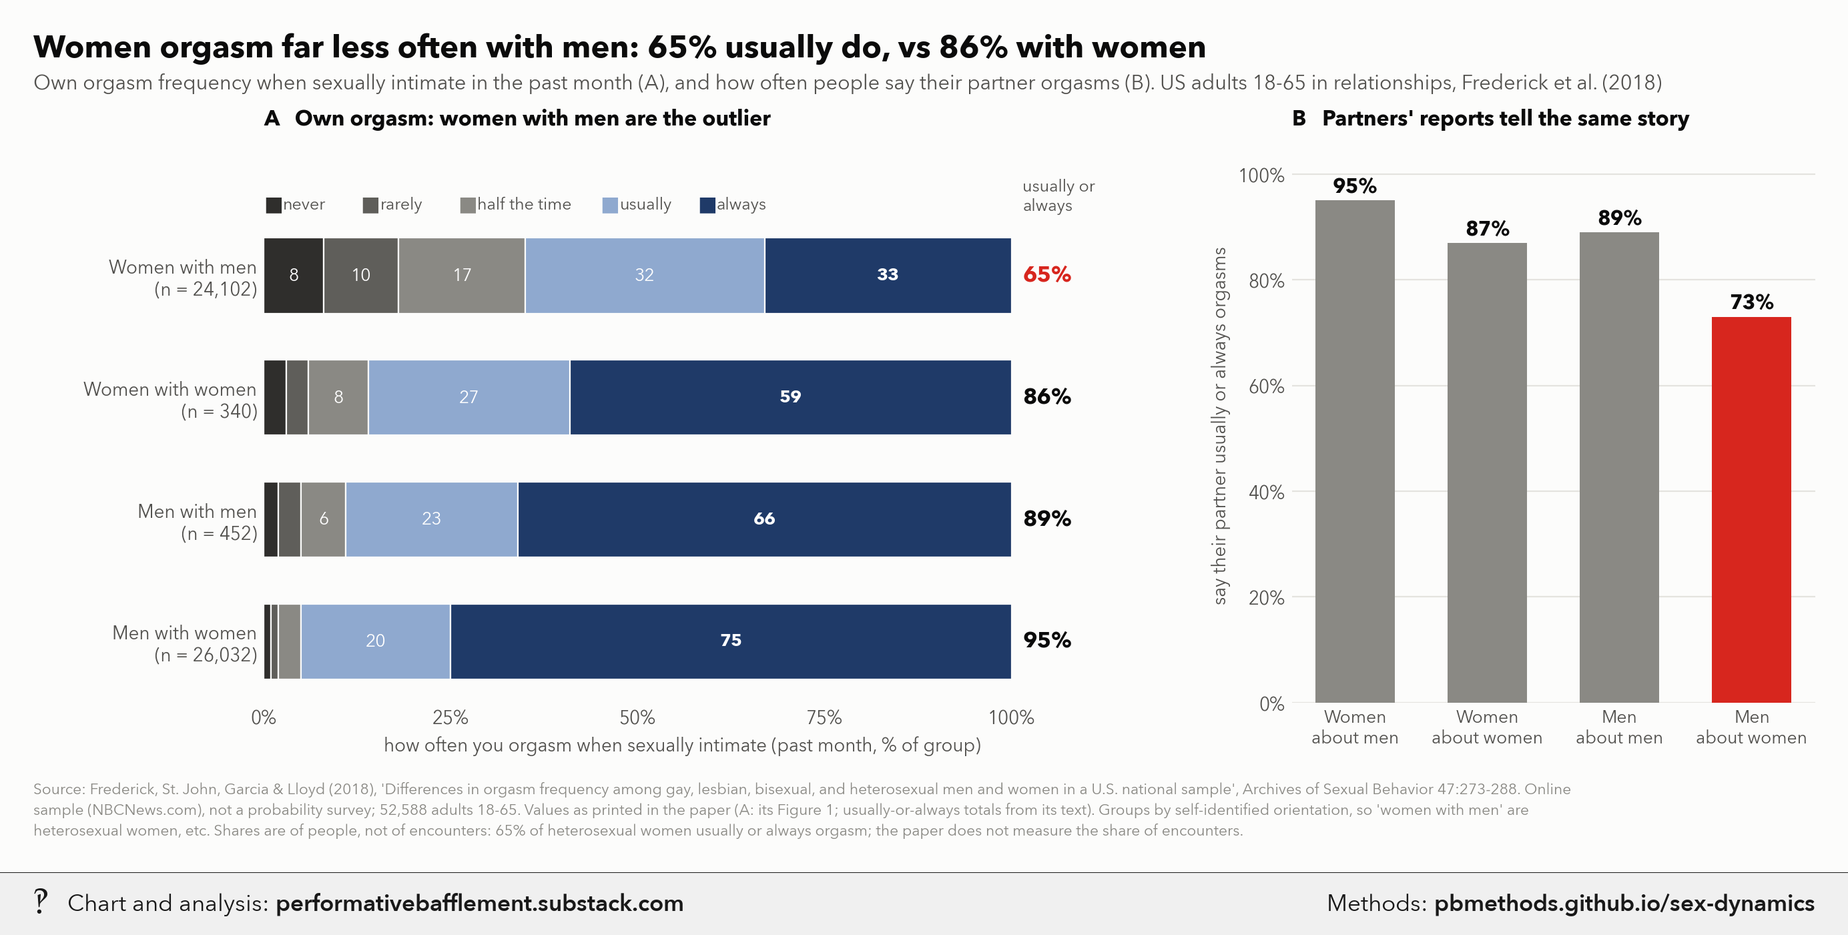
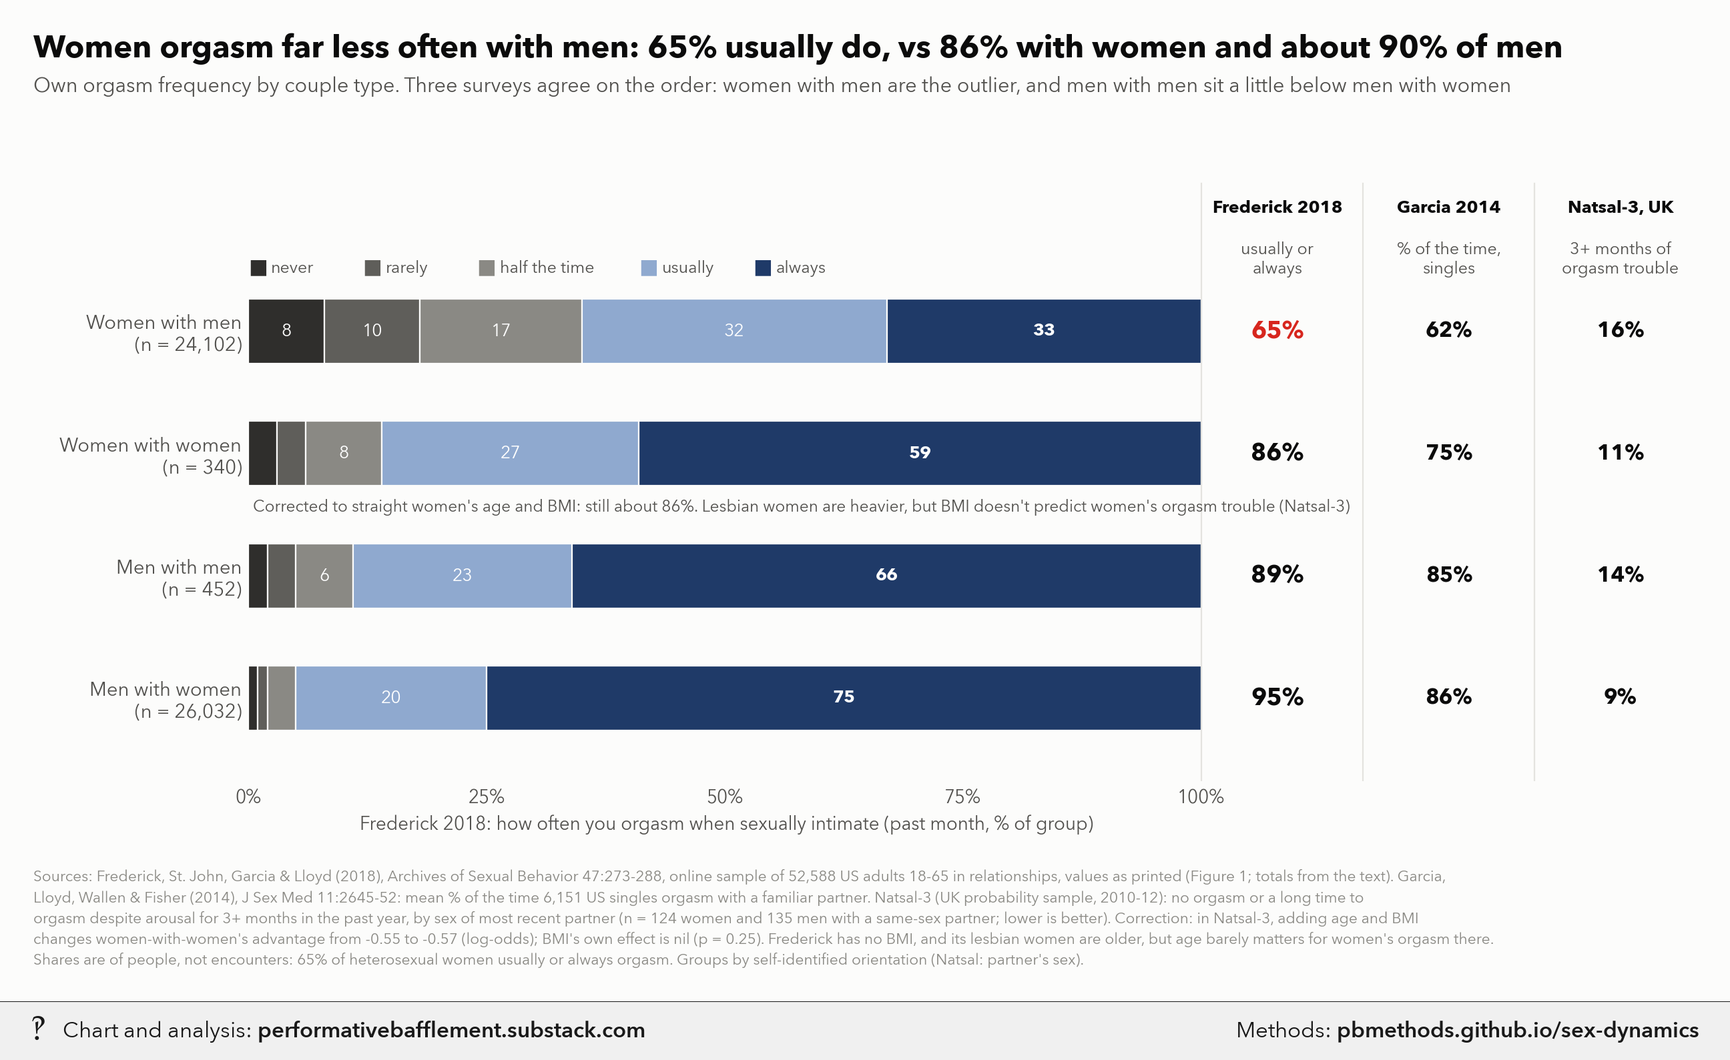
Update sex-dynamics

diff --git a/sex-dynamics/index.html b/sex-dynamics/index.html
@@ -4493,6 +4493,48 @@ pd.DataFrame({
     &quot;partner_usually_always&quot;: [95, 87, 89, 73],
 }).assign(source=&quot;Frederick et al. 2018, Arch Sex Behav, Figure 1 and results&quot;).to_csv(
     HERE / &quot;frederick_orgasm.csv&quot;, index=False)
+
+# Orgasm triangulation and the age/BMI check on lesbian women (Natsal-3, UK probability sample 2010-12).
+# Groups by sex of most recent partner (r1sex), outcome = no orgasm or a long time to orgasm despite arousal for 3+
+# months in the last year (nolgorg3m). Logit of that on same-sex partner, then + age, age^2 and BMI (self-reported,
+# 14-70) or obesity, to see whether women-with-women's advantage moves at straight women's age and BMI.
+import statsmodels.formula.api as smf  # noqa: E402
+no = pd.read_stata(NAT, columns=[&quot;rsex&quot;, &quot;r1sex&quot;, &quot;dage&quot;, &quot;bodymass&quot;, &quot;nolgorg3m&quot;, &quot;total_wt&quot;],
+                   convert_categoricals=False)
+no = no[no.nolgorg3m.isin([0, 1]) &amp; no.r1sex.isin([1, 2])].copy()
+no[&quot;bmi&quot;] = no.bodymass.where(no.bodymass.between(14, 70))
+no[&quot;obese&quot;] = (no.bmi &gt;= 30).astype(float).where(no.bmi.notna())
+no[&quot;same&quot;] = (no.rsex == no.r1sex).astype(int)
+GLAB = {(2, 0): &quot;heterosexual women&quot;, (2, 1): &quot;lesbian women&quot;, (1, 1): &quot;gay men&quot;, (1, 0): &quot;heterosexual men&quot;}
+orows = []
+for (s, same), g in no.groupby([&quot;rsex&quot;, &quot;same&quot;]):
+    gb = g[g.bmi.notna()]
+    orows.append(dict(group=GLAB[(s, same)], n=len(g), orgasm_trouble=np.average(g.nolgorg3m, weights=g.total_wt),
+                      mean_age=np.average(g.dage, weights=g.total_wt),
+                      mean_bmi=np.average(gb.bmi, weights=gb.total_wt),
+                      obese=np.average(gb.obese, weights=gb.total_wt)))
+NORG = pd.DataFrame(orows)
+for s, lab in [(2, &quot;women&quot;), (1, &quot;men&quot;)]:
+    g = no[(no.rsex == s) &amp; no.bmi.notna()]
+    for name, fml in [(&quot;raw&quot;, &quot;nolgorg3m ~ same&quot;), (&quot;age&quot;, &quot;nolgorg3m ~ same + dage + I(dage**2)&quot;),
+                      (&quot;age_bmi&quot;, &quot;nolgorg3m ~ same + dage + I(dage**2) + bmi&quot;),
+                      (&quot;age_obese&quot;, &quot;nolgorg3m ~ same + dage + I(dage**2) + obese&quot;)]:
+        r = smf.glm(fml, data=g, family=sm.families.Binomial(), freq_weights=g.total_wt).fit()
+        lo, hi = r.conf_int().loc[&quot;same&quot;]
+        row = {&quot;group&quot;: f&quot;logit same-sex partner, {lab}: {name}&quot;, &quot;coef&quot;: r.params[&quot;same&quot;], &quot;lo&quot;: lo, &quot;hi&quot;: hi,
+               &quot;p&quot;: r.pvalues[&quot;same&quot;]}
+        for k in [&quot;bmi&quot;, &quot;obese&quot;]:
+            if k in r.params:
+                row[f&quot;coef_{k}&quot;], row[f&quot;p_{k}&quot;] = r.params[k], r.pvalues[k]
+        NORG = pd.concat([NORG, pd.DataFrame([row])], ignore_index=True)
+NORG.to_csv(HERE / &quot;natsal_orgasm_trouble.csv&quot;, index=False)
+print(NORG.round(3).to_string(index=False))
+
+# Garcia, Lloyd, Wallen &amp; Fisher (2014, J Sex Med 11:2645-52), Singles in America 2012, n = 6,151 US singles:
+# mean % of the time respondents orgasm in sex with a familiar partner (abstract values).
+pd.DataFrame({&quot;group&quot;: [&quot;heterosexual women&quot;, &quot;lesbian women&quot;, &quot;gay men&quot;, &quot;heterosexual men&quot;],
+              &quot;pct_of_time&quot;: [61.6, 74.7, 84.7, 85.5]}).assign(
+    source=&quot;Garcia et al. 2014, J Sex Med, abstract&quot;).to_csv(HERE / &quot;garcia2014_orgasm.csv&quot;, index=False)
 </code></pre>
 <h3><code>master_post_charts.py</code></h3>
 <pre><code class="language-python">&quot;&quot;&quot;Charts for &quot;The master post of sexual and relationship dynamics&quot; (Performative Bafflement).
@@ -5303,57 +5345,69 @@ save(fig, &quot;top_decile_archetypes&quot;)
 
 
 # =============================================================== 13. orgasm by couple type (Frederick et al. 2018)
+# One panel: Frederick's distribution, with two independent surveys alongside, and the age/BMI check on lesbian women.
 fo = read(&quot;frederick_orgasm.csv&quot;)
+ga = read(&quot;garcia2014_orgasm.csv&quot;).set_index(&quot;group&quot;)
+nt = read(&quot;natsal_orgasm_trouble.csv&quot;)
+nt_adj = nt[nt.group.str.startswith(&quot;logit same-sex partner, women&quot;)].set_index(&quot;group&quot;)
+nt = nt[nt.n.notna()].set_index(&quot;group&quot;)
 LABO = {&quot;heterosexual women&quot;: &quot;Women with men&quot;, &quot;lesbian women&quot;: &quot;Women with women&quot;, &quot;gay men&quot;: &quot;Men with men&quot;,
         &quot;heterosexual men&quot;: &quot;Men with women&quot;}
-fig, (ax, bx) = plt.subplots(1, 2, figsize=(15, 5.4), gridspec_kw=dict(width_ratios=[1.6, 1], wspace=0.28))
-y = np.arange(len(fo))[::-1]
+fig, ax = plt.subplots(figsize=(14, 6.0))
+y = np.arange(len(fo))[::-1] * 1.25
 SEG = [(&quot;never&quot;, &quot;never&quot;, pb.GRAYS[2]), (&quot;rarely&quot;, &quot;rarely&quot;, pb.GRAYS[1]), (&quot;half&quot;, &quot;half the time&quot;, pb.GRAYS[0]),
        (&quot;usually&quot;, &quot;usually&quot;, &quot;#8fa9cf&quot;), (&quot;always&quot;, &quot;always&quot;, NAVY)]
+C1, C2, C3 = 108, 126, 144
 for yi, r in zip(y, fo.itertuples()):
     left = 0
     for col, _, c in SEG:
         v = getattr(r, col)
-        ax.barh(yi, v, left=left, height=0.62, color=c, edgecolor=P[&quot;SURFACE&quot;], lw=0.8)
+        ax.barh(yi, v, left=left, height=0.66, color=c, edgecolor=P[&quot;SURFACE&quot;], lw=0.8)
         if v &gt;= 6:
             ax.text(left + v / 2, yi, f&quot;{v}&quot;, ha=&quot;center&quot;, va=&quot;center&quot;, fontsize=9.5, color=&quot;white&quot;,
                     fontweight=&quot;bold&quot; if col == &quot;always&quot; else &quot;normal&quot;)
         left += v
-    ax.text(101.5, yi, f&quot;{r.usually_always_text}%&quot;, va=&quot;center&quot;, fontsize=12, fontweight=&quot;bold&quot;,
-            color=RED if r.group == &quot;heterosexual women&quot; else INK)
-ax.text(101.5, y[0] + 0.5, &quot;usually or\nalways&quot;, fontsize=9, color=INK2, va=&quot;bottom&quot;)
-ax.set_yticks(y, [f&quot;{LABO[g]}\n(n = {n:,})&quot; for g, n in zip(fo.group, fo.n)], fontsize=10)
-ax.set_xlim(0, 112); ax.set_xticks([0, 25, 50, 75, 100], [&quot;0%&quot;, &quot;25%&quot;, &quot;50%&quot;, &quot;75%&quot;, &quot;100%&quot;])
+    hl = r.group == &quot;heterosexual women&quot;
+    ax.text(C1, yi, f&quot;{r.usually_always_text}%&quot;, va=&quot;center&quot;, ha=&quot;center&quot;, fontsize=13, fontweight=&quot;bold&quot;,
+            color=RED if hl else INK)
+    ax.text(C2, yi, f&quot;{ga.loc[r.group, 'pct_of_time']:.0f}%&quot;, va=&quot;center&quot;, ha=&quot;center&quot;, fontsize=11.5,
+            fontweight=&quot;bold&quot;, color=INK)
+    ax.text(C3, yi, f&quot;{nt.loc[r.group, 'orgasm_trouble']:.0%}&quot;, va=&quot;center&quot;, ha=&quot;center&quot;, fontsize=11.5,
+            fontweight=&quot;bold&quot;, color=INK)
+yl = y[list(fo.group).index(&quot;lesbian women&quot;)]
+ax.text(0.5, yl - 0.55, &quot;Corrected to straight women's age and BMI: still about 86%. Lesbian women are heavier, but &quot;
+        &quot;BMI doesn't predict women's orgasm trouble (Natsal-3)&quot;, fontsize=8.8, color=INK2, va=&quot;center&quot;)
+top = y[0] + 0.55
+for xc, lab in [(C1, &quot;usually or\nalways&quot;), (C2, &quot;% of the time,\nsingles&quot;), (C3, &quot;3+ months of\norgasm trouble&quot;)]:
+    ax.text(xc, top, lab, fontsize=9, color=INK2, ha=&quot;center&quot;, va=&quot;bottom&quot;, linespacing=1.2)
+for xc, lab in [(C1, &quot;Frederick 2018&quot;), (C2, &quot;Garcia 2014&quot;), (C3, &quot;Natsal-3, UK&quot;)]:
+    ax.text(xc, top + 0.62, lab, fontsize=9.5, color=INK, fontweight=&quot;bold&quot;, ha=&quot;center&quot;, va=&quot;bottom&quot;)
+ax.set_yticks(y, [f&quot;{LABO[g]}\n(n = {n:,})&quot; for g, n in zip(fo.group, fo.n)], fontsize=10.5)
+ax.set_xlim(0, 152); ax.set_xticks([0, 25, 50, 75, 100], [&quot;0%&quot;, &quot;25%&quot;, &quot;50%&quot;, &quot;75%&quot;, &quot;100%&quot;])
 ax.grid(axis=&quot;y&quot;, visible=False)
 x0 = 0
 for col, lab, c in SEG:
-    ax.text(x0, y[0] + 0.5, &quot;■&quot;, color=c, fontsize=11, va=&quot;bottom&quot;)
-    ax.text(x0 + 2.6, y[0] + 0.51, lab, color=INK2, fontsize=9, va=&quot;bottom&quot;)
-    x0 += 13 if col != &quot;half&quot; else 19
-ax.set_xlabel(&quot;how often you orgasm when sexually intimate (past month, % of group)&quot;)
-panel_title(ax, &quot;A&quot;, &quot;Own orgasm: women with men are the outlier&quot;)
-ax.set_ylim(-0.5, y[0] + 1.05)
+    ax.text(x0, top, &quot;■&quot;, color=c, fontsize=11, va=&quot;bottom&quot;)
+    ax.text(x0 + 2.4, top + 0.01, lab, color=INK2, fontsize=9, va=&quot;bottom&quot;)
+    x0 += 12 if col != &quot;half&quot; else 17
+ax.set_xlabel(&quot;Frederick 2018: how often you orgasm when sexually intimate (past month, % of group)&quot;, x=0.33)
+ax.set_ylim(y[-1] - 0.85, top + 1.15)
+for xc in [C1 - 8, C2 - 9, C3 - 9]:
+    ax.axvline(xc, color=P[&quot;GRID&quot;], lw=0.8, ymax=0.97)
 
-x = np.arange(len(fo))
-bx.bar(x, fo.partner_usually_always, width=0.6, color=[RED if g == &quot;heterosexual men&quot; else GRAY for g in fo.group])
-for xi, v in zip(x, fo.partner_usually_always):
-    bx.text(xi, v + 1.5, f&quot;{v}%&quot;, ha=&quot;center&quot;, fontsize=11, fontweight=&quot;bold&quot;, color=INK)
-PLAB = {&quot;heterosexual women&quot;: &quot;Women\nabout men&quot;, &quot;lesbian women&quot;: &quot;Women\nabout women&quot;,
-        &quot;gay men&quot;: &quot;Men\nabout men&quot;, &quot;heterosexual men&quot;: &quot;Men\nabout women&quot;}
-bx.set_xticks(x, [PLAB[g] for g in fo.group], fontsize=9.5)
-bx.set_ylim(0, 105); bx.yaxis.set_major_formatter(ppt)
-bx.set_ylabel(&quot;say their partner usually or always orgasms&quot;)
-panel_title(bx, &quot;B&quot;, &quot;Partners' reports tell the same story&quot;)
-
-header(fig, &quot;Women orgasm far less often with men: 65% usually do, vs 86% with women&quot;,
-       &quot;Own orgasm frequency when sexually intimate in the past month (A), and how often people say their partner &quot;
-       &quot;orgasms (B). US adults 18-65 in relationships, Frederick et al. (2018)&quot;, y=0.92)
-footnote(fig, &quot;Source: Frederick, St. John, Garcia &amp; Lloyd (2018), 'Differences in orgasm frequency among gay, lesbian, &quot;
-              &quot;bisexual, and heterosexual men and women in a U.S. national sample', Archives of Sexual Behavior 47:273-288. &quot;
-              &quot;Online\nsample (NBCNews.com), not a probability survey; 52,588 adults 18-65. Values as printed in the paper &quot;
-              &quot;(A: its Figure 1; usually-or-always totals from its text). Groups by self-identified orientation, so &quot;
-              &quot;'women with men' are\nheterosexual women, etc. Shares are of people, not of encounters: 65% of &quot;
-              &quot;heterosexual women usually or always orgasm; the paper does not measure the share of encounters.&quot;, y=0.0)
+header(fig, &quot;Women orgasm far less often with men: 65% usually do, vs 86% with women and about 90% of men&quot;,
+       &quot;Own orgasm frequency by couple type. Three surveys agree on the order: women with men are the outlier, and &quot;
+       &quot;men with men sit a little below men with women&quot;, y=0.93)
+footnote(fig, &quot;Sources: Frederick, St. John, Garcia &amp; Lloyd (2018), Archives of Sexual Behavior 47:273-288, online &quot;
+              &quot;sample of 52,588 US adults 18-65 in relationships, values as printed (Figure 1; totals from the text). &quot;
+              &quot;Garcia,\nLloyd, Wallen &amp; Fisher (2014), J Sex Med 11:2645-52: mean % of the time 6,151 US singles orgasm &quot;
+              &quot;with a familiar partner. Natsal-3 (UK probability sample, 2010-12): no orgasm or a long time to\norgasm &quot;
+              &quot;despite arousal for 3+ months in the past year, by sex of most recent partner (n = 124 women and 135 men &quot;
+              &quot;with a same-sex partner; lower is better). Correction: in Natsal-3, adding age and BMI\nchanges women-&quot;
+              f&quot;with-women's advantage from {nt_adj.coef.iloc[0]:.2f} to {nt_adj.coef.iloc[2]:.2f} (log-odds); BMI's own &quot;
+              f&quot;effect is nil (p = {nt_adj.p_bmi.iloc[2]:.2f}). Frederick has no BMI, and its lesbian women are older, but age &quot;
+              &quot;barely matters for women's orgasm there.\nShares are of people, not encounters: 65% of heterosexual women &quot;
+              &quot;usually or always orgasm. Groups by self-identified orientation (Natsal: partner's sex).&quot;, y=0.0)
 save(fig, &quot;orgasm_by_couple_type&quot;)
 </code></pre>
 </main></body></html>

diff --git a/sex-dynamics/methods.md b/sex-dynamics/methods.md
@@ -1592,6 +1592,48 @@ pd.DataFrame({
     "partner_usually_always": [95, 87, 89, 73],
 }).assign(source="Frederick et al. 2018, Arch Sex Behav, Figure 1 and results").to_csv(
     HERE / "frederick_orgasm.csv", index=False)
+
+# Orgasm triangulation and the age/BMI check on lesbian women (Natsal-3, UK probability sample 2010-12).
+# Groups by sex of most recent partner (r1sex), outcome = no orgasm or a long time to orgasm despite arousal for 3+
+# months in the last year (nolgorg3m). Logit of that on same-sex partner, then + age, age^2 and BMI (self-reported,
+# 14-70) or obesity, to see whether women-with-women's advantage moves at straight women's age and BMI.
+import statsmodels.formula.api as smf  # noqa: E402
+no = pd.read_stata(NAT, columns=["rsex", "r1sex", "dage", "bodymass", "nolgorg3m", "total_wt"],
+                   convert_categoricals=False)
+no = no[no.nolgorg3m.isin([0, 1]) & no.r1sex.isin([1, 2])].copy()
+no["bmi"] = no.bodymass.where(no.bodymass.between(14, 70))
+no["obese"] = (no.bmi >= 30).astype(float).where(no.bmi.notna())
+no["same"] = (no.rsex == no.r1sex).astype(int)
+GLAB = {(2, 0): "heterosexual women", (2, 1): "lesbian women", (1, 1): "gay men", (1, 0): "heterosexual men"}
+orows = []
+for (s, same), g in no.groupby(["rsex", "same"]):
+    gb = g[g.bmi.notna()]
+    orows.append(dict(group=GLAB[(s, same)], n=len(g), orgasm_trouble=np.average(g.nolgorg3m, weights=g.total_wt),
+                      mean_age=np.average(g.dage, weights=g.total_wt),
+                      mean_bmi=np.average(gb.bmi, weights=gb.total_wt),
+                      obese=np.average(gb.obese, weights=gb.total_wt)))
+NORG = pd.DataFrame(orows)
+for s, lab in [(2, "women"), (1, "men")]:
+    g = no[(no.rsex == s) & no.bmi.notna()]
+    for name, fml in [("raw", "nolgorg3m ~ same"), ("age", "nolgorg3m ~ same + dage + I(dage**2)"),
+                      ("age_bmi", "nolgorg3m ~ same + dage + I(dage**2) + bmi"),
+                      ("age_obese", "nolgorg3m ~ same + dage + I(dage**2) + obese")]:
+        r = smf.glm(fml, data=g, family=sm.families.Binomial(), freq_weights=g.total_wt).fit()
+        lo, hi = r.conf_int().loc["same"]
+        row = {"group": f"logit same-sex partner, {lab}: {name}", "coef": r.params["same"], "lo": lo, "hi": hi,
+               "p": r.pvalues["same"]}
+        for k in ["bmi", "obese"]:
+            if k in r.params:
+                row[f"coef_{k}"], row[f"p_{k}"] = r.params[k], r.pvalues[k]
+        NORG = pd.concat([NORG, pd.DataFrame([row])], ignore_index=True)
+NORG.to_csv(HERE / "natsal_orgasm_trouble.csv", index=False)
+print(NORG.round(3).to_string(index=False))
+
+# Garcia, Lloyd, Wallen & Fisher (2014, J Sex Med 11:2645-52), Singles in America 2012, n = 6,151 US singles:
+# mean % of the time respondents orgasm in sex with a familiar partner (abstract values).
+pd.DataFrame({"group": ["heterosexual women", "lesbian women", "gay men", "heterosexual men"],
+              "pct_of_time": [61.6, 74.7, 84.7, 85.5]}).assign(
+    source="Garcia et al. 2014, J Sex Med, abstract").to_csv(HERE / "garcia2014_orgasm.csv", index=False)
 ```
 
 ### `master_post_charts.py`
@@ -2405,56 +2447,68 @@ save(fig, "top_decile_archetypes")
 
 
 # =============================================================== 13. orgasm by couple type (Frederick et al. 2018)
+# One panel: Frederick's distribution, with two independent surveys alongside, and the age/BMI check on lesbian women.
 fo = read("frederick_orgasm.csv")
+ga = read("garcia2014_orgasm.csv").set_index("group")
+nt = read("natsal_orgasm_trouble.csv")
+nt_adj = nt[nt.group.str.startswith("logit same-sex partner, women")].set_index("group")
+nt = nt[nt.n.notna()].set_index("group")
 LABO = {"heterosexual women": "Women with men", "lesbian women": "Women with women", "gay men": "Men with men",
         "heterosexual men": "Men with women"}
-fig, (ax, bx) = plt.subplots(1, 2, figsize=(15, 5.4), gridspec_kw=dict(width_ratios=[1.6, 1], wspace=0.28))
-y = np.arange(len(fo))[::-1]
+fig, ax = plt.subplots(figsize=(14, 6.0))
+y = np.arange(len(fo))[::-1] * 1.25
 SEG = [("never", "never", pb.GRAYS[2]), ("rarely", "rarely", pb.GRAYS[1]), ("half", "half the time", pb.GRAYS[0]),
        ("usually", "usually", "#8fa9cf"), ("always", "always", NAVY)]
+C1, C2, C3 = 108, 126, 144
 for yi, r in zip(y, fo.itertuples()):
     left = 0
     for col, _, c in SEG:
         v = getattr(r, col)
-        ax.barh(yi, v, left=left, height=0.62, color=c, edgecolor=P["SURFACE"], lw=0.8)
+        ax.barh(yi, v, left=left, height=0.66, color=c, edgecolor=P["SURFACE"], lw=0.8)
         if v >= 6:
             ax.text(left + v / 2, yi, f"{v}", ha="center", va="center", fontsize=9.5, color="white",
                     fontweight="bold" if col == "always" else "normal")
         left += v
-    ax.text(101.5, yi, f"{r.usually_always_text}%", va="center", fontsize=12, fontweight="bold",
-            color=RED if r.group == "heterosexual women" else INK)
-ax.text(101.5, y[0] + 0.5, "usually or\nalways", fontsize=9, color=INK2, va="bottom")
-ax.set_yticks(y, [f"{LABO[g]}\n(n = {n:,})" for g, n in zip(fo.group, fo.n)], fontsize=10)
-ax.set_xlim(0, 112); ax.set_xticks([0, 25, 50, 75, 100], ["0%", "25%", "50%", "75%", "100%"])
+    hl = r.group == "heterosexual women"
+    ax.text(C1, yi, f"{r.usually_always_text}%", va="center", ha="center", fontsize=13, fontweight="bold",
+            color=RED if hl else INK)
+    ax.text(C2, yi, f"{ga.loc[r.group, 'pct_of_time']:.0f}%", va="center", ha="center", fontsize=11.5,
+            fontweight="bold", color=INK)
+    ax.text(C3, yi, f"{nt.loc[r.group, 'orgasm_trouble']:.0%}", va="center", ha="center", fontsize=11.5,
+            fontweight="bold", color=INK)
+yl = y[list(fo.group).index("lesbian women")]
+ax.text(0.5, yl - 0.55, "Corrected to straight women's age and BMI: still about 86%. Lesbian women are heavier, but "
+        "BMI doesn't predict women's orgasm trouble (Natsal-3)", fontsize=8.8, color=INK2, va="center")
+top = y[0] + 0.55
+for xc, lab in [(C1, "usually or\nalways"), (C2, "% of the time,\nsingles"), (C3, "3+ months of\norgasm trouble")]:
+    ax.text(xc, top, lab, fontsize=9, color=INK2, ha="center", va="bottom", linespacing=1.2)
+for xc, lab in [(C1, "Frederick 2018"), (C2, "Garcia 2014"), (C3, "Natsal-3, UK")]:
+    ax.text(xc, top + 0.62, lab, fontsize=9.5, color=INK, fontweight="bold", ha="center", va="bottom")
+ax.set_yticks(y, [f"{LABO[g]}\n(n = {n:,})" for g, n in zip(fo.group, fo.n)], fontsize=10.5)
+ax.set_xlim(0, 152); ax.set_xticks([0, 25, 50, 75, 100], ["0%", "25%", "50%", "75%", "100%"])
 ax.grid(axis="y", visible=False)
 x0 = 0
 for col, lab, c in SEG:
-    ax.text(x0, y[0] + 0.5, "■", color=c, fontsize=11, va="bottom")
-    ax.text(x0 + 2.6, y[0] + 0.51, lab, color=INK2, fontsize=9, va="bottom")
-    x0 += 13 if col != "half" else 19
-ax.set_xlabel("how often you orgasm when sexually intimate (past month, % of group)")
-panel_title(ax, "A", "Own orgasm: women with men are the outlier")
-ax.set_ylim(-0.5, y[0] + 1.05)
+    ax.text(x0, top, "■", color=c, fontsize=11, va="bottom")
+    ax.text(x0 + 2.4, top + 0.01, lab, color=INK2, fontsize=9, va="bottom")
+    x0 += 12 if col != "half" else 17
+ax.set_xlabel("Frederick 2018: how often you orgasm when sexually intimate (past month, % of group)", x=0.33)
+ax.set_ylim(y[-1] - 0.85, top + 1.15)
+for xc in [C1 - 8, C2 - 9, C3 - 9]:
+    ax.axvline(xc, color=P["GRID"], lw=0.8, ymax=0.97)
 
-x = np.arange(len(fo))
-bx.bar(x, fo.partner_usually_always, width=0.6, color=[RED if g == "heterosexual men" else GRAY for g in fo.group])
-for xi, v in zip(x, fo.partner_usually_always):
-    bx.text(xi, v + 1.5, f"{v}%", ha="center", fontsize=11, fontweight="bold", color=INK)
-PLAB = {"heterosexual women": "Women\nabout men", "lesbian women": "Women\nabout women",
-        "gay men": "Men\nabout men", "heterosexual men": "Men\nabout women"}
-bx.set_xticks(x, [PLAB[g] for g in fo.group], fontsize=9.5)
-bx.set_ylim(0, 105); bx.yaxis.set_major_formatter(ppt)
-bx.set_ylabel("say their partner usually or always orgasms")
-panel_title(bx, "B", "Partners' reports tell the same story")
-
-header(fig, "Women orgasm far less often with men: 65% usually do, vs 86% with women",
-       "Own orgasm frequency when sexually intimate in the past month (A), and how often people say their partner "
-       "orgasms (B). US adults 18-65 in relationships, Frederick et al. (2018)", y=0.92)
-footnote(fig, "Source: Frederick, St. John, Garcia & Lloyd (2018), 'Differences in orgasm frequency among gay, lesbian, "
-              "bisexual, and heterosexual men and women in a U.S. national sample', Archives of Sexual Behavior 47:273-288. "
-              "Online\nsample (NBCNews.com), not a probability survey; 52,588 adults 18-65. Values as printed in the paper "
-              "(A: its Figure 1; usually-or-always totals from its text). Groups by self-identified orientation, so "
-              "'women with men' are\nheterosexual women, etc. Shares are of people, not of encounters: 65% of "
-              "heterosexual women usually or always orgasm; the paper does not measure the share of encounters.", y=0.0)
+header(fig, "Women orgasm far less often with men: 65% usually do, vs 86% with women and about 90% of men",
+       "Own orgasm frequency by couple type. Three surveys agree on the order: women with men are the outlier, and "
+       "men with men sit a little below men with women", y=0.93)
+footnote(fig, "Sources: Frederick, St. John, Garcia & Lloyd (2018), Archives of Sexual Behavior 47:273-288, online "
+              "sample of 52,588 US adults 18-65 in relationships, values as printed (Figure 1; totals from the text). "
+              "Garcia,\nLloyd, Wallen & Fisher (2014), J Sex Med 11:2645-52: mean % of the time 6,151 US singles orgasm "
+              "with a familiar partner. Natsal-3 (UK probability sample, 2010-12): no orgasm or a long time to\norgasm "
+              "despite arousal for 3+ months in the past year, by sex of most recent partner (n = 124 women and 135 men "
+              "with a same-sex partner; lower is better). Correction: in Natsal-3, adding age and BMI\nchanges women-"
+              f"with-women's advantage from {nt_adj.coef.iloc[0]:.2f} to {nt_adj.coef.iloc[2]:.2f} (log-odds); BMI's own "
+              f"effect is nil (p = {nt_adj.p_bmi.iloc[2]:.2f}). Frederick has no BMI, and its lesbian women are older, but age "
+              "barely matters for women's orgasm there.\nShares are of people, not encounters: 65% of heterosexual women "
+              "usually or always orgasm. Groups by self-identified orientation (Natsal: partner's sex).", y=0.0)
 save(fig, "orgasm_by_couple_type")
 ```
